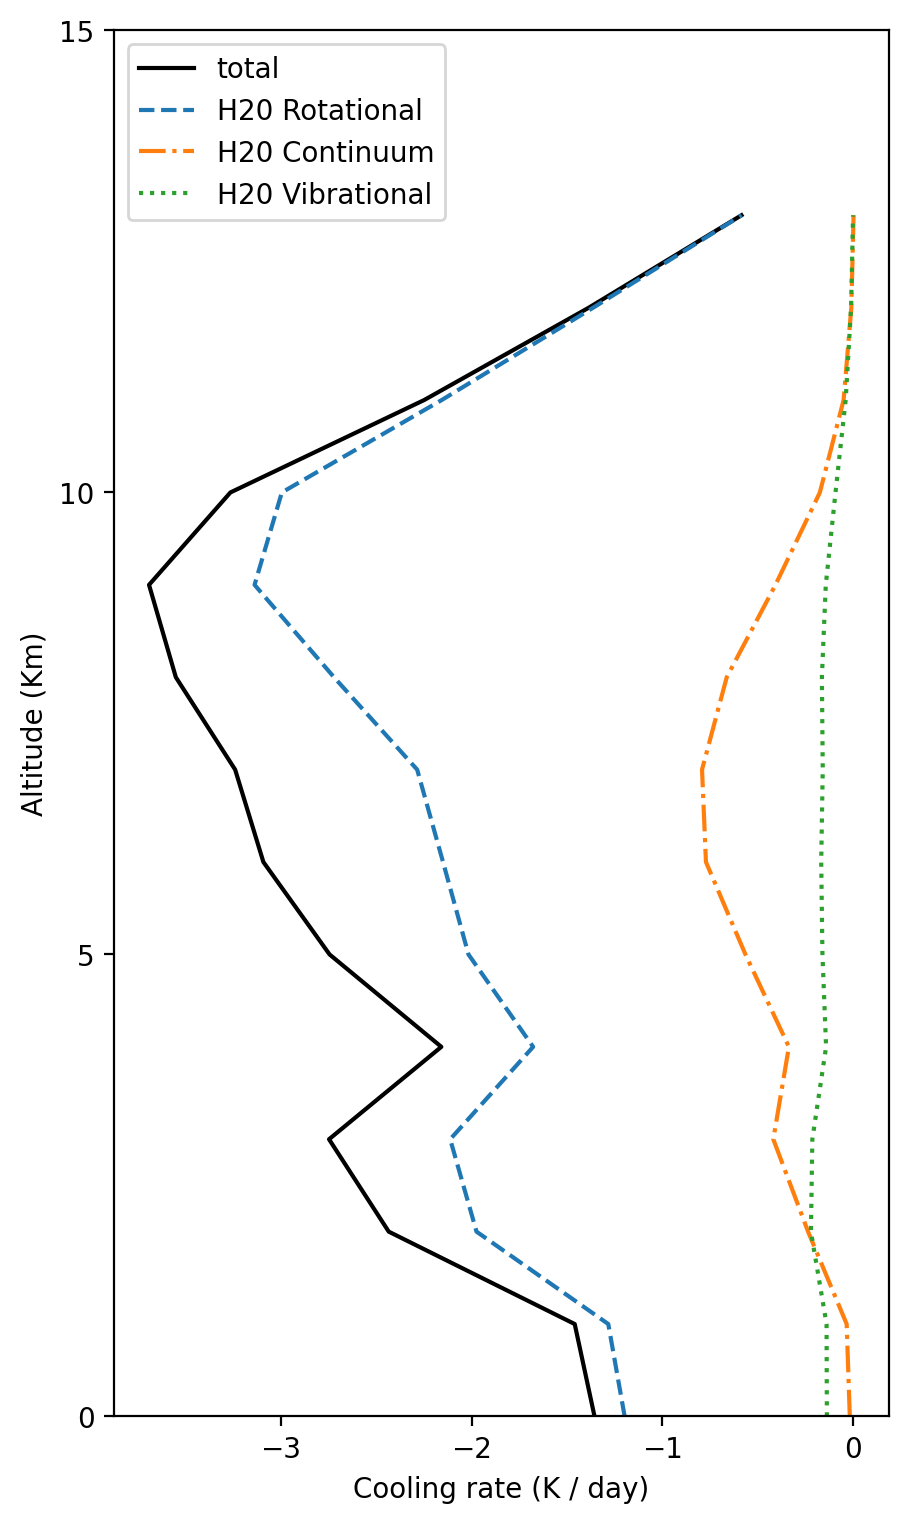
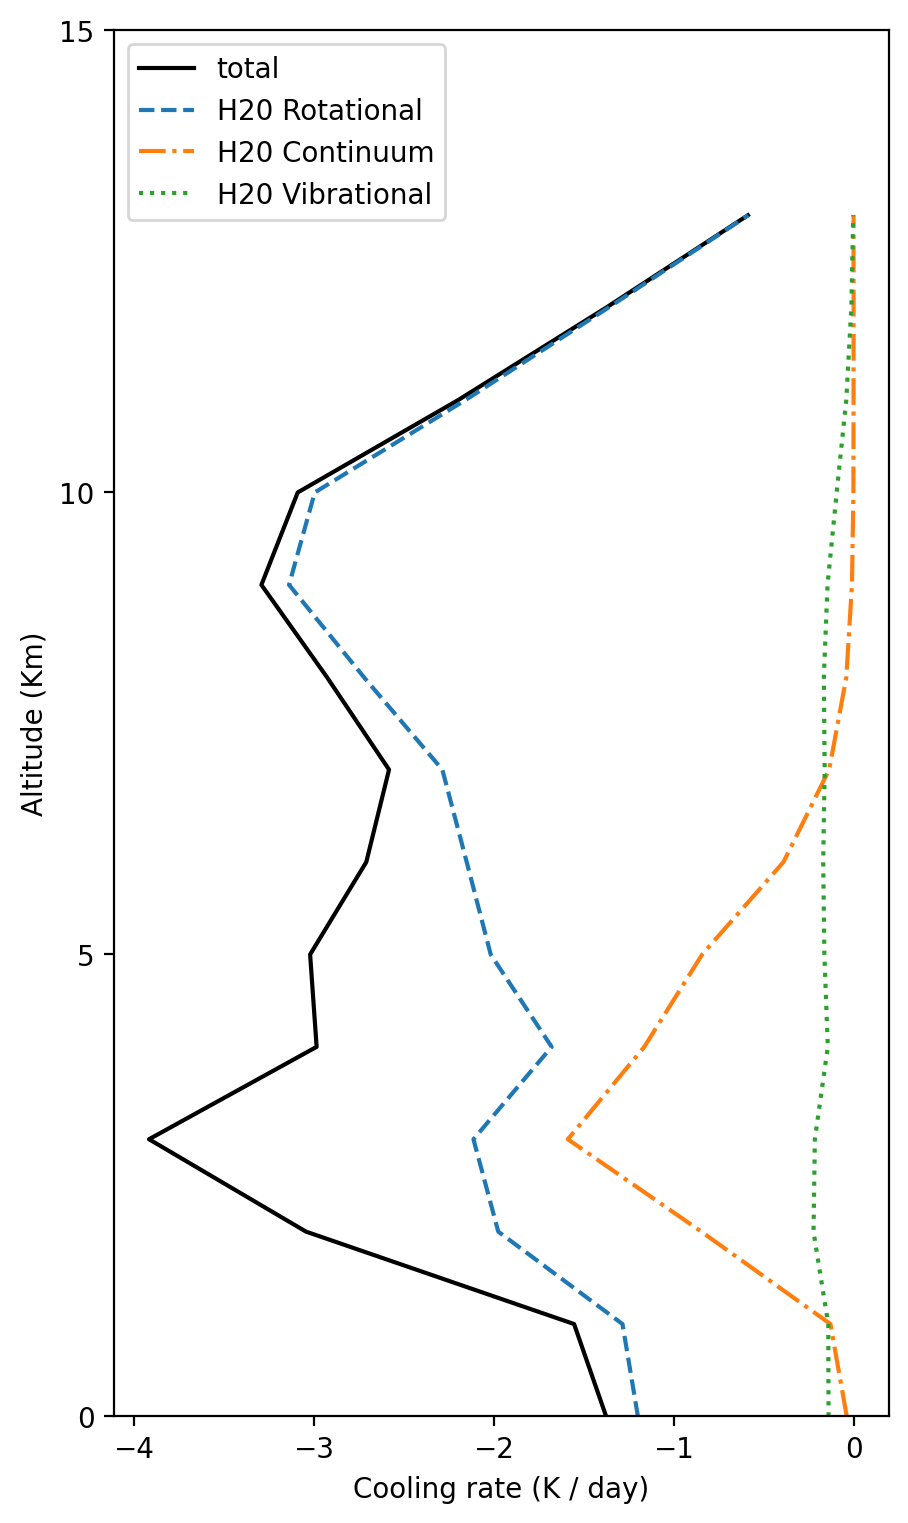
ajustes

diff --git a/Scripts/broadband.py b/Scripts/broadband.py
@@ -182,7 +182,7 @@ def path_length_10µm(T, u):
 	# ---------------------------------------------
 
 	# funcao a ser integrada
-	y = ( (T / T0) ** (Cp / R) ) * np.exp(- 1800 / (T0 * T) * (T - T0))
+	y = ( saturation_vapor_pressure(T - 273.15) / saturation_vapor_pressure(T0 - 273.15) ) * np.exp(- 1800 / (T0 * T) * (T - T0))
 
 	# SE O ARRAY U NÃO ESTIVER EM ORDEM ASCENDENTE
 	# É PRECISO ORGANIZA-LO ANTES DE INTEGRAR
